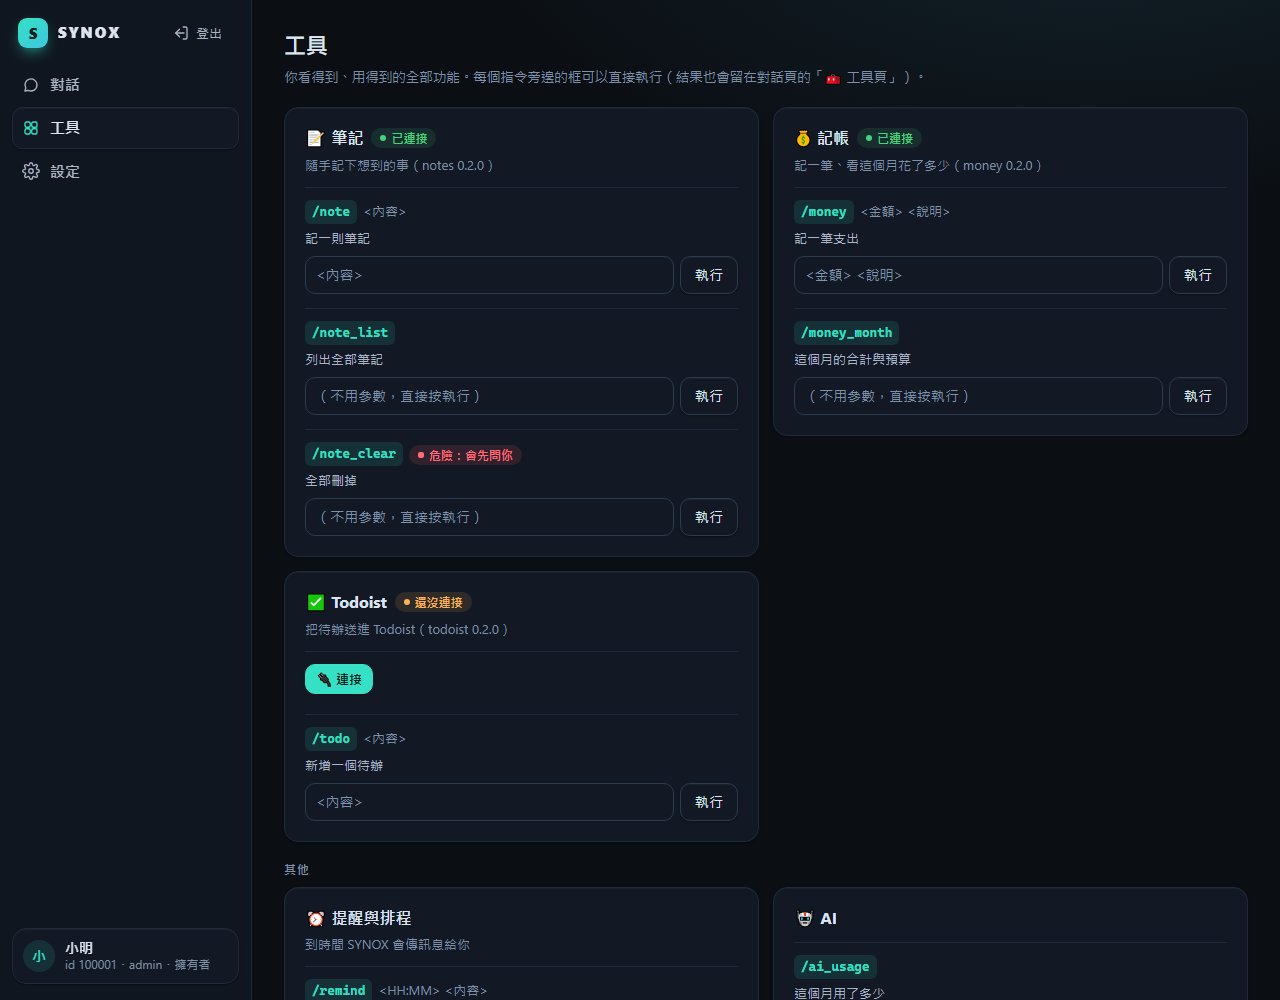
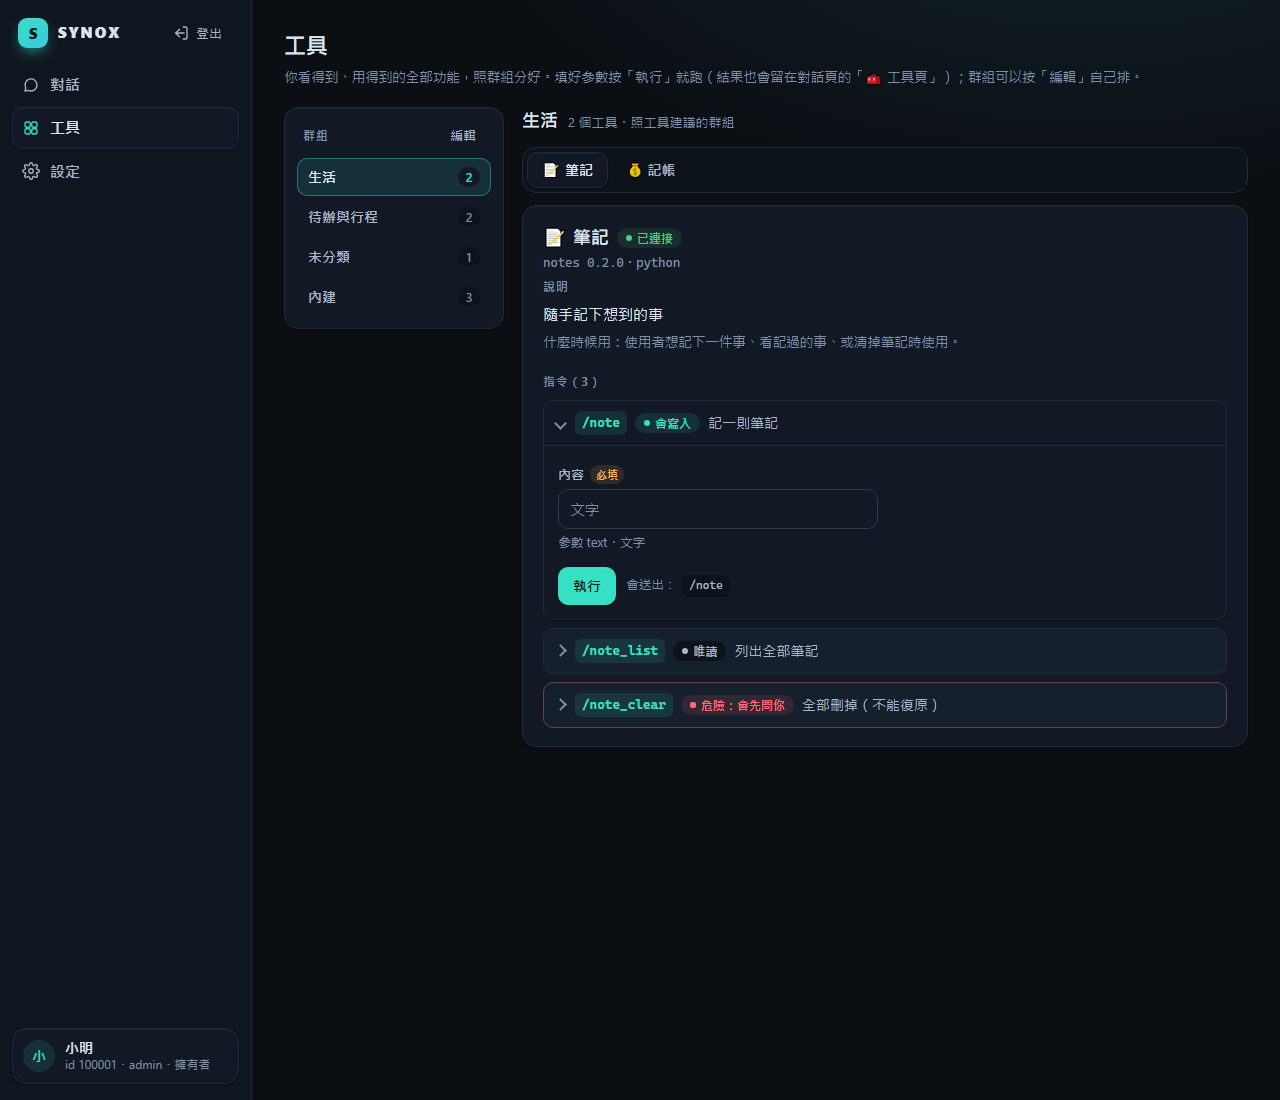
docs(ui): tools page screenshots, notes, changelog and two owner questions
What：
- docs/ui/screenshots：重拍工具頁（電腦版淺／深色、群組編輯淺／深色）、新增手機寬度的工具頁與群組編輯，
  重拍手機總覽（多了「工具：編輯群組」那一格）。全部是 headless Chrome（沙箱照開、獨立的暫存設定檔）
  用 file:// 開自己產生的 docs/ui/preview*.html。
- docs/ui/redesign-notes.md 的「工具」一段改成新版面；docs/AGENT.md 地圖補 toolpage.py、tools.js／css、category。
- CHANGELOG「未發佈」補一段；QuestionToUser.md 加 Q6（伺服器版擁有者要不要替成員排預設群組）、
  Q7（群組要不要也用在聊天的 /help），都寫了建議與「不答就照建議」。

Why：
讓擁有者雙擊預覽或看截圖就知道新工具頁長什麼樣；需要他拍板的只留真的是產品決定的兩題。

diff --git a/docs/AGENT.md b/docs/AGENT.md
@@ -29,14 +29,14 @@
 | `src/synox/discord/` 其他 | `bots.py`（BotSpec、設定檢查；頻道型 `guilds`／`role_map`／`trigger`／`rate_per_minute`）、`events.py`（`parse_event` 私訊、`parse_room_event` 頻道）、`rest.py`（`DiscordChannel`）、`gateway.py`（`INTENTS`／`CHANNEL_INTENTS`、`on_ready`）、`__init__.py`（`install`、`DiscordEntry`、`RoomEntry`／`RoomReply`／`RoomThrottle`、`MultiHome`、配對）。見 [discord.md](discord.md) |
 | `src/synox/llm/` | `base.py`（`ChatAdapter`、`Message`、`Reply`、`ToolCall`、`ToolSpec`）、`easy_llm.py`（openai／anthropic／gemini／openai_compat，經 `ntu_easy_llm.agent`，lazy import）、`claude_code`、`fake`、`textproto`、`factory.make_adapter` |
 | `src/synox/vault/` | `vault.py`（Fernet＋每檔 scrypt、`*.json.enc`；`for_user(id)`＝伺服器版每人的保管箱，HKDF 衍生）、`keyring.py`（DPAPI 包住主金鑰 `data/.synox.key`） |
-| `src/synox/packs/` | `manifest.py`（pack.json v2 檢查＝第 1 關；`surfaces`／`data`（`_check_scope`、`default_data`、`cli_templates`）；`requires.synox`＝`synox_problem`、`requires.env`→`secret_env_names`、`fields[].kind`、`auth.fields`）、`secrets.py`（pack 的 secret：`PackSecrets`、`managed_fields`）、`scan.py`（ast 靜態掃描＝第 2 關；`_check_data_python`／`_check_data_cli`＝data 宣告的規則；`ImportContext`＝import 的來源、`_fold`＝拼出來的字串，審查 C #C5）、`lock.py`（`data/packs.lock`＝第 3 關；`trust`、`trust_of`）、`loader.py`（掃 `packs/`＋`connectors/`、`Pack`／`PackStore`／`store.of(user)`、`group_policy`、`surface_policy`（沒有 channel＝private_only）、`shared_write_admin`、cli 代換與 `build_argv`）、`kit.py`（照位置填的指令）、`envs.py`（`runtime.python／node = "auto"`：`Builder.plan`／`build(m, jobs, on_done)` 建 `data/envs/<pack>/`、`python_of`／`node_of`／`node_env` 給 loader 代換、`env_problem` 給 loader／doctor；`set_factory` 換實作） |
+| `src/synox/packs/` | `manifest.py`（pack.json v2 檢查＝第 1 關；`surfaces`／`data`（`_check_scope`、`default_data`、`cli_templates`）；`requires.synox`＝`synox_problem`、`requires.env`→`secret_env_names`、`fields[].kind`、`auth.fields`；工具頁用的 `category`、strict 時的說明欄位型別 `_field_doc_problems`、提醒 `doc_warnings`）、`secrets.py`（pack 的 secret：`PackSecrets`、`managed_fields`）、`scan.py`（ast 靜態掃描＝第 2 關；`_check_data_python`／`_check_data_cli`＝data 宣告的規則；`ImportContext`＝import 的來源、`_fold`＝拼出來的字串，審查 C #C5）、`lock.py`（`data/packs.lock`＝第 3 關；`trust`、`trust_of`）、`loader.py`（掃 `packs/`＋`connectors/`、`Pack`／`PackStore`／`store.of(user)`、`group_policy`、`surface_policy`（沒有 channel＝private_only）、`shared_write_admin`、cli 代換與 `build_argv`）、`kit.py`（照位置填的指令）、`envs.py`（`runtime.python／node = "auto"`：`Builder.plan`／`build(m, jobs, on_done)` 建 `data/envs/<pack>/`、`python_of`／`node_of`／`node_env` 給 loader 代換、`env_problem` 給 loader／doctor；`set_factory` 換實作） |
 | `src/synox/packs/mcp.py` | kind=mcp stdio（P4a）：`Session`（JSON-RPC over stdio、讀執行緒、`request`／`notify`）、`handshake`（initialize／initialized／tools/list）、`spawn`（Windows Job Object）、`McpPool`（每個 key 一個長駐程序、`reap()` 閒置回收、`close_all`；`clock`／`spawner` 可換）、`Scope`／`PerUserScope`／`SharedScope`（介面）、`shape_of`（inputSchema → fields）、`to_arguments`、`needs_confirm_of`、`render_result`、快取 `data/mcp/<pack>.tools.json`、`doctor_notes`、`Backend`／`StdioBackend`（連法）、`redact`、`install`（loader 叫，兩種連法共用） |
 | `src/synox/packs/mcp_http.py` | kind=mcp http（P4b）：`HttpSession`（Streamable HTTP：POST JSON-RPC、JSON／單次 SSE 回應、`Mcp-Session-Id`、不跟轉址、DELETE 收尾）、`HttpBackend`（Bearer token 或 OAuth）、`parse_sse`、`new_session`（測試換掉） |
 | `src/synox/packs/oauth.py` | 遠端 MCP 的 OAuth（選配）：`Flow`（PKCE＋state、貼回網址、換／更新 token 存 PackSecrets、`/<群組>_login／_code／_logout`）、`Listener`／`PasteListener`／`LoopbackListener`（只有介面，叫了就拒） |
 | `src/synox/sdk/` | 給 pack 作者：JSON 信封、`Pack.load`、`init_pack`、`zip_pack`；`synox-sdk init｜check｜zip`（`python -m synox.sdk`）。說明 [sdk.md](sdk.md) |
 | `src/synox/agent/` | `tools.py`（葉節點 → ToolSpec）、`loop.py`（`ai_decision`、一輪、用量）、`validate.py`（第 4 關呼叫驗證）、`delimit.py`（第 5 關工具結果分隔符）、`budget.py`（伺服器版成員每月額度；`BotPool` 頻道型 bot 一池）、`room.py`（頻道 AI：`RoomAgent`、`redact_reply`）、`capture.py`、`approve.py`（核准卡）、`skills.py` |
 | `src/synox/schedule/` | `store.py`（伺服器版 `store.of(user)` 每人一份、`all_stores()`）、`runner.py`（30 秒、via=ROUTINE，以檔案主人的身分跑）、`commands.py`（`/remind_*`、`/schedule_*`） |
-| `src/synox/web/` | Web UI：`server.py`（`WebUI.route(method, path, headers, body, session)` 做全部判斷；`_Handler` 是薄殼；只綁 127.0.0.1）、`channel.py`（`WebChannel`＝SDK Channel）、`chats.py`（每人的對話紀錄，密文）、`tokens.py`（一次性登入連結、cookie session）、`static/app.html`（一頁、vanilla JS）、`__init__.py`（`install`、`/web`、`/web_off`） |
+| `src/synox/web/` | Web UI：`server.py`（`WebUI.route(method, path, headers, body, session)` 做全部判斷；`_Handler` 是薄殼；只綁 127.0.0.1）、`channel.py`（`WebChannel`＝SDK Channel）、`chats.py`（每人的對話紀錄，密文）、`tokens.py`（一次性登入連結、cookie session）、`static/app.html`（一頁、vanilla JS）、`__init__.py`（`install`、`/web`、`/web_off`）；工具頁：`toolpage.py`（指令卡與參數表單的資訊 `command_info`、群組排版 `effective`／`parse_layout`、每人的偏好 `UserPrefs`＝`data/web_prefs/<id>.json.enc`）＋`static/tools.js`／`tools.css`（`server.render_app` 換掉 app.html 的 `<!-- include: … -->`，同一個 nonce） |
 | `src/synox/packs/admin.py` | `.synoxpack`：stage（zip 檢查＋第 1、2 關；記 zip 的執行位元、不解出 `__pycache__`）→ install_staged（再驗一次＋T2 要 `trust_publisher`＋第 3 關寫鎖）／移除到 `packs/_removed/`／`reload()`（Web UI、`synox install` 共用）；`format_tier`／`red`＝T2 的紅字段 |
 | `src/synox/packs/tier.py` | 信任層級（SDK P7）：`assess`（T0／T1／T2＋掃不到內容的檔、外部程式、runtime auto 套件）、`warning_lines`、`confirm_problem`（publisher 一字不差）、`reconfirm_reasons`（升級）、`lock_fields` |
 | `src/synox/packs/upgrade.py` | 同名再裝＝升級：`staged_upgrade`（「改了什麼」、semver 版本檢查，權限變大的標 alert＝紅字）→ `upgrade_staged`（舊的搬到 `_removed/<name>-<版本>-<時間>`＋旁邊留舊鎖、鎖換新）；`rollback`（`python -m synox packs rollback <name>`）。資料不在 pack 資料夾，不動；資料 schema 升級由 pack 自己負責 |

diff --git a/CHANGELOG.md b/CHANGELOG.md
@@ -15,6 +15,17 @@
 - 新增 `scripts/make_ui_preview.py`：產生 `docs/ui/preview*.html`（真的 app.html＋假資料，雙擊就能看）；`tests/test_ui_preview.py` 檢查預覽有沒有同步。
 - 主色與深淺色切換鈕、安裝精靈要不要跟著換：[QuestionToUser.md](QuestionToUser.md) Q4、Q5。
 
+### 網頁「工具」頁：群組＋分頁＋表單（branch `feat/tools-page-groups`，還沒合併）
+- 工具頁重做：頁內左邊是群組，群組裡的工具用分頁隔開；每個工具有說明、指令卡（effect 徽章）、照宣告產生的參數表單
+  （必填、下拉、預設值、說明）、「會送出：…」預覽、執行（危險的先在畫面上問一次；仍經同一個 dispatcher）。
+  使用者可以新增／改名／刪除群組、排序、把工具移到別的群組，存在每個人自己的偏好（`data/web_prefs/<id>.json.enc`，
+  擁有者與成員各自一份，不寫進 pack 資料夾）。新 API：`POST /api/tools/layout`；`GET /api/tools` 多了 `layout` 與每個欄位的表單資訊。
+  程式在 `src/synox/web/toolpage.py`、`static/tools.js`、`static/tools.css`。
+- pack.json 新欄位 `category`（網頁工具頁建議的群組，沒寫＝「未分類」；使用者排的優先）、`fields[].help`（表單上的說明）。
+  安裝時多檢查說明欄位的型別（`summary`／`ask`／`help` 一行字、`required` 布林、`default` 合 kind）；SKILL.md 沒有 frontmatter、
+  指令沒 summary、欄位沒 ask 只提醒不擋（安裝報告、`synox-sdk check`）。`@tool` 參數的預設值會寫成 `default`。
+  說明：[docs/tools.md](docs/tools.md)「網頁工具頁」、[docs/pack-format.md](docs/pack-format.md)。
+
 ### 修正
 - 兩個無效的跳脫字元（`src/synox/wizard/shortcuts.py` 的說明、`tests/test_wizard.py` 的位元組字串）改成 raw 字串，內容不變；
   Python 3.12 起會是 SyntaxWarning。

diff --git a/docs/ui/redesign-notes.md b/docs/ui/redesign-notes.md
@@ -49,7 +49,12 @@
 - **外框**：電腦版是左側欄（252px）加內容；手機（≤ 760px）是上方列（品牌、對話紀錄橫向捲動、登出）加底部三個分頁。
 - **登入**：沒有側欄，只有一張置中卡片，兩個步驟加編號。
 - **對話**：對話紀錄在左側欄，主區是一張大卡（標題列、訊息、輸入區）。訊息泡泡：自己的靠右、淡青綠；SYNOX 的靠左、有框；系統說明置中、膠囊狀。按鈕卡（核准卡）兩欄並排。
-- **工具**：每個 pack 一張卡（標題＋狀態徽章），指令名是等寬字的小標籤，每個指令一行輸入框加「執行」。
+- **工具**（2026-11-12 分支 `feat/tools-page-groups` 重做）：頁內左邊是「群組」，群組裡的工具用分頁隔開；每個工具分頁有說明、
+  指令卡（可以收合；effect 徽章；參數照 pack.json 的 `fields` 產生表單：必填標籤、下拉、預設值、說明）、「會送出：…」的指令預覽、
+  「執行」（危險的先在畫面上問一次）。按「編輯」可以新增／改名／刪除群組、排序、把工具移到別的群組，存在每個人自己的偏好。
+  手機寬度：群組變成上面一排可以橫捲的膠囊，分頁也橫捲。程式在 `static/tools.js`、`static/tools.css`（伺服器送出頁面時
+  放進 app.html 的 include 標記，同一個 nonce）；規則見 [../tools.md](../tools.md)「網頁工具頁」。
+  預覽：`preview.html#tools`、`preview.html?tooledit=1#tools`（群組編輯可以真的按，存在那一頁的記憶體裡）。
 - **設定**：單欄卡片（AI、聊天通道、功能、帳號、備份），每張卡的開頭是圖示方塊、標題和一句說明。
 - **伺服器產生的小頁**（登入確認、登入連結不能用）：同一套顏色的置中卡片。
 
